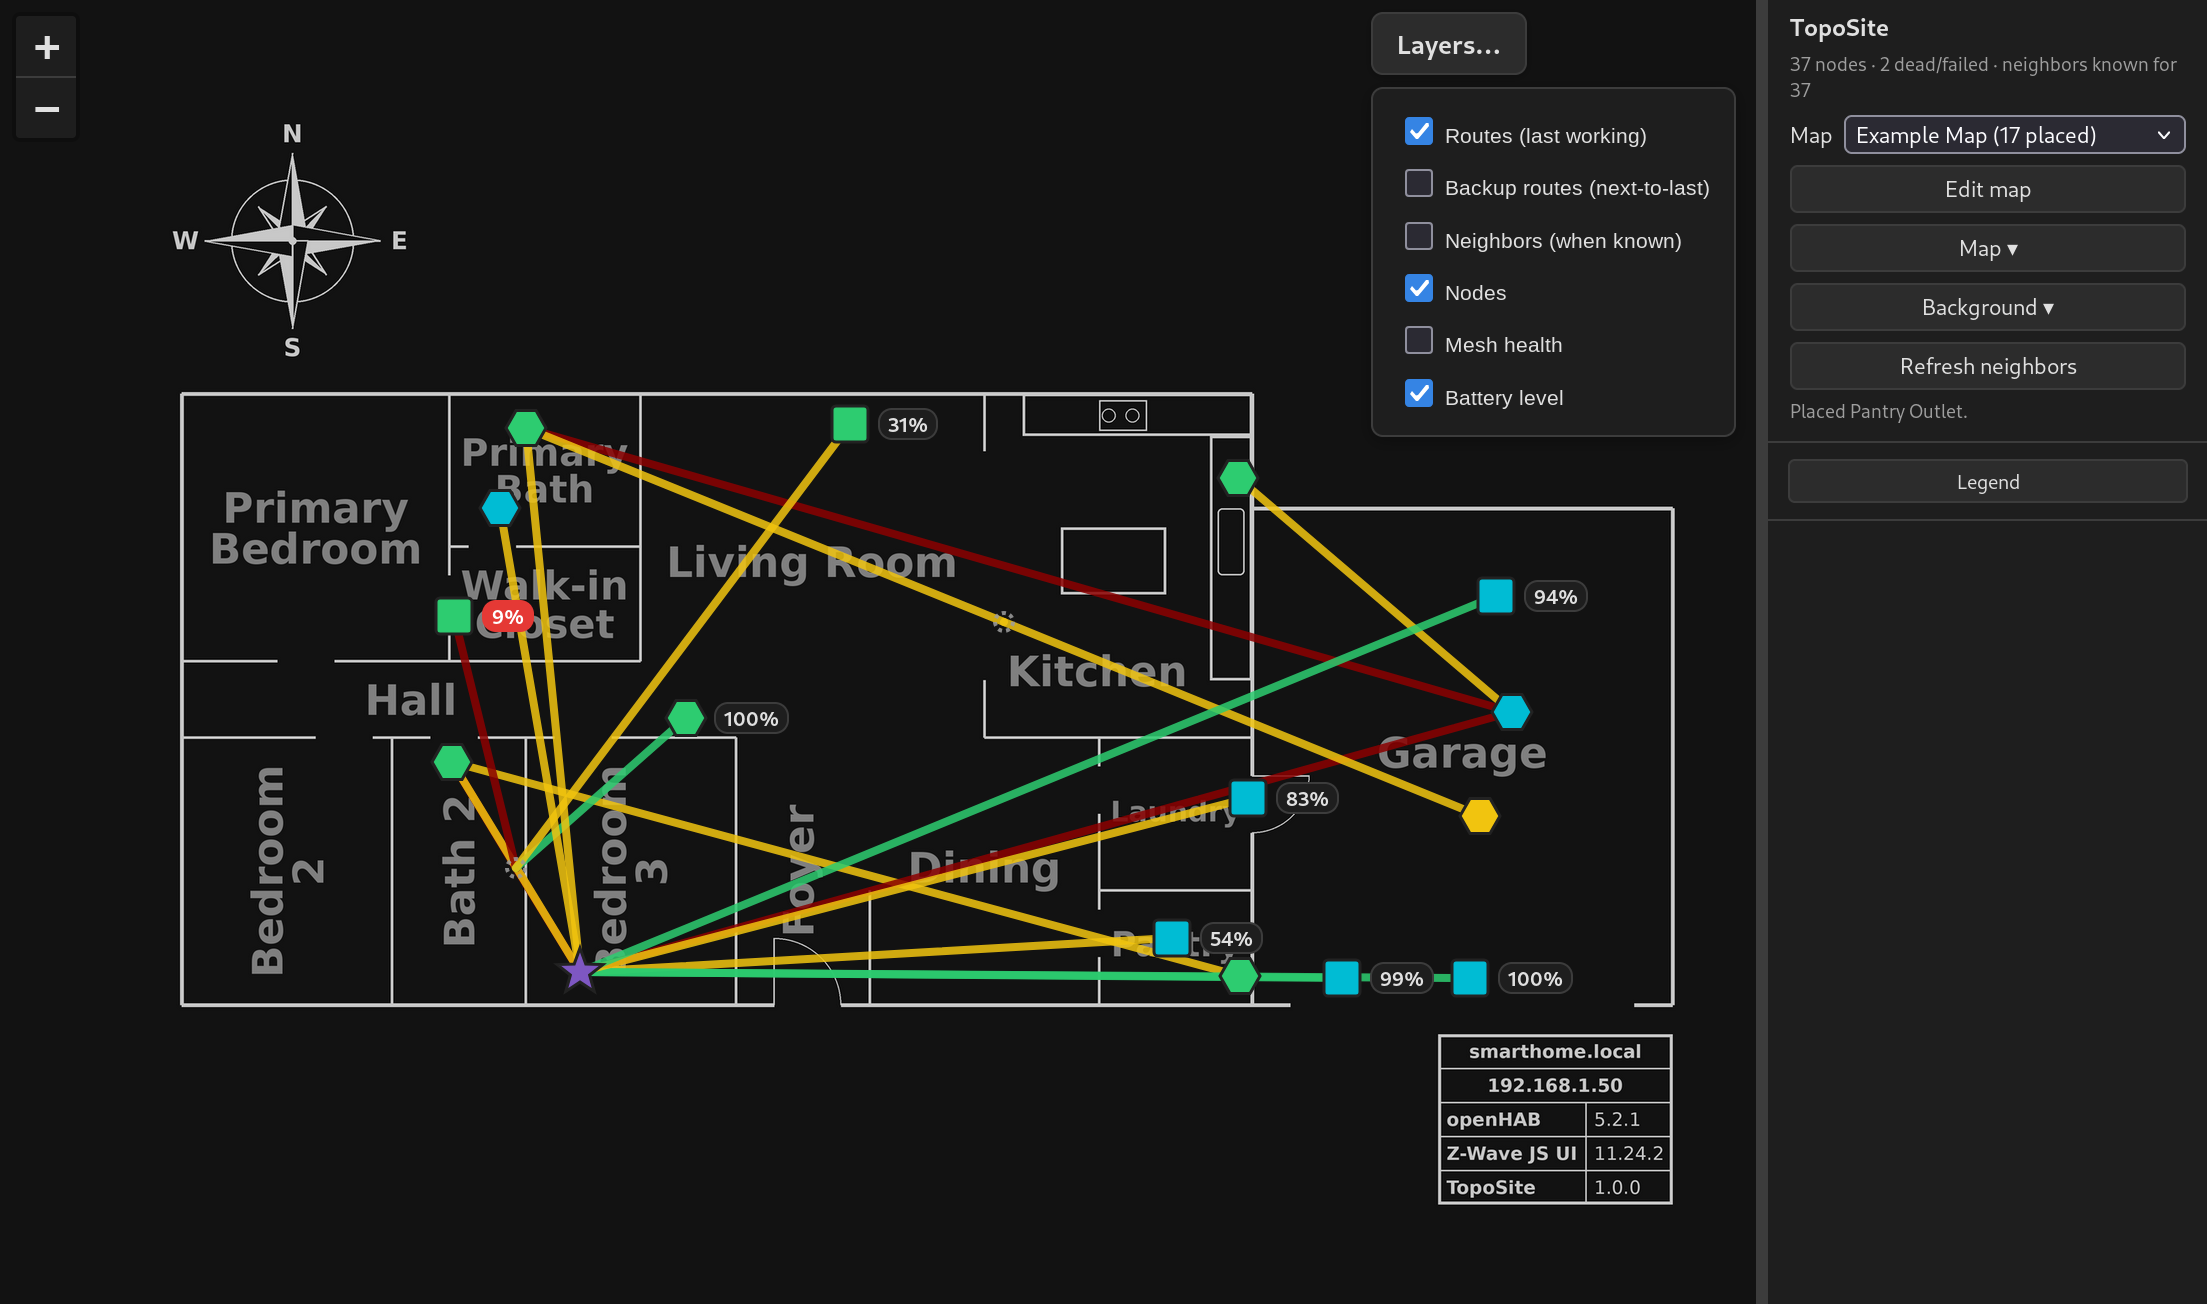
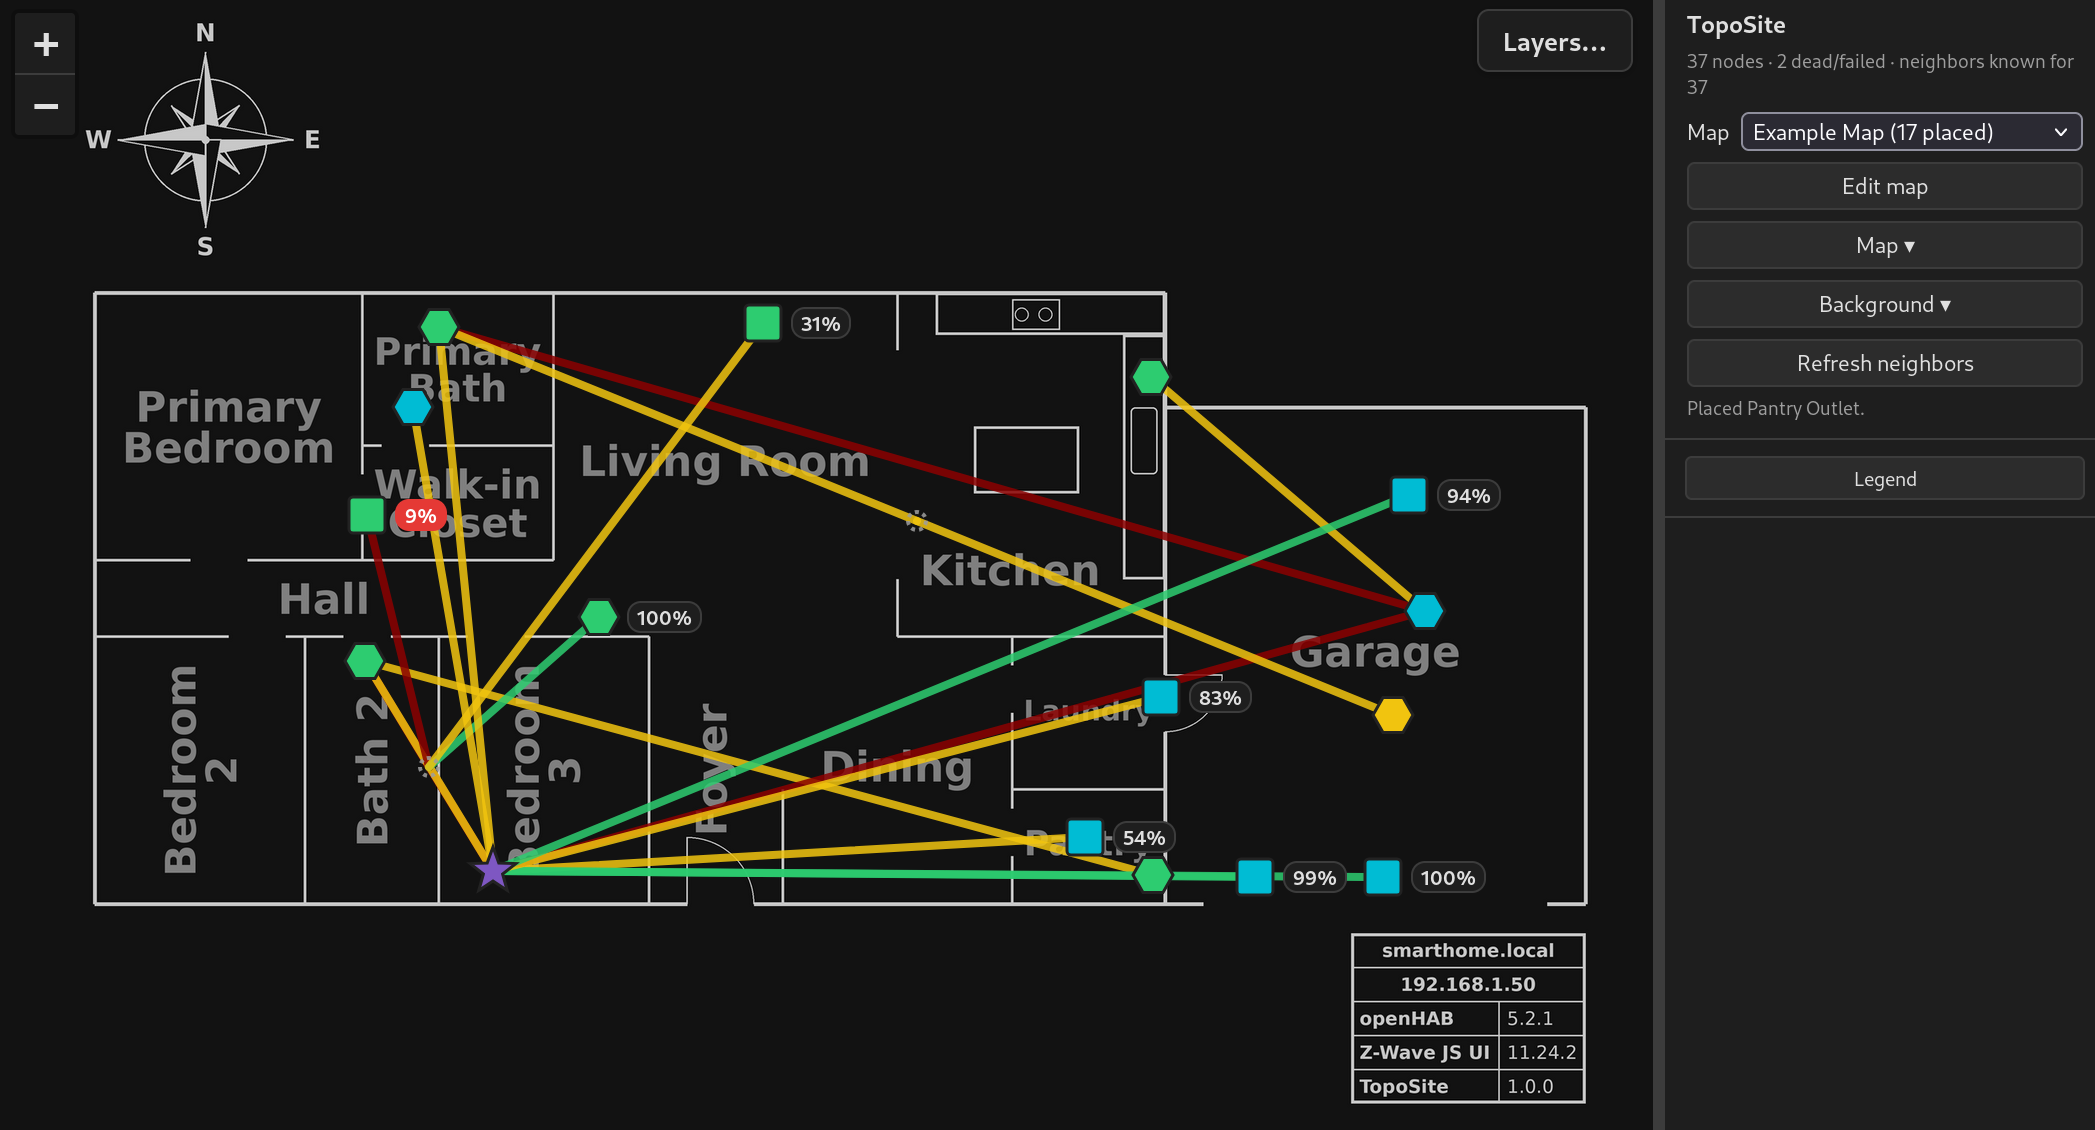
Update README screenshots (regenerated, page-only); routes section now shows node names and ghost repeaters — TopoSite v0.2.0 (SN 00002)

diff --git a/README.md b/README.md
@@ -48,14 +48,17 @@ room needs a repeater.
 
 All taken on an example map in Z-Wave JS UI's dark theme.
 
-**Routes.** Nodes placed on a floor plan, with each node's last working route
-back to the controller (the purple star). Node shape shows power: hexagon for
-mains (repeats for the mesh), square for battery. Node colour is the hop count
-(cyan = direct, green = 2 hops, yellow = 3), and line colour is the data rate
-(green 100 kbit/s, yellow 40 kbit/s, dark red 9.6 kbit/s), matching Z-Wave JS
-UI's own Network Graph.
+**Routes and node names.** Nodes placed on a floor plan, with each node's last
+working route back to the controller (the purple star, here named *wopr3*).
+Node shape shows power: hexagon for mains (repeats for the mesh), square for
+battery. Node colour is the hop count (cyan = direct, green = 2 hops, yellow =
+3), and line colour is the data rate (green 100 kbit/s, yellow 40 kbit/s, dark
+red 9.6 kbit/s), matching Z-Wave JS UI's own Network Graph. The two faint grey
+dots with grey names (*Workshop Attic Lights*, *GeekCave_Lights*) are nodes
+hidden on this map that still repeat for nodes shown on it, so their routes
+stay traceable.
 
-![Routes on a floor plan](images/TopoSite-Routes.png)
+![Routes and node names on a floor plan](images/TopoSite-Routes_Names.png)
 
 **Routes and neighbors.** The *Neighbors* layer adds a thin grey line for every
 entry in the nodes' neighbor tables, so you can see which devices can hear each
